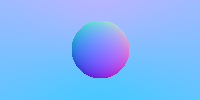
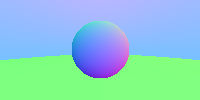
rendering multiple spheres

diff --git a/main.cpp b/main.cpp
@@ -7,32 +7,18 @@
 
 #include "math.h"
 #include "ray.h"
+#include "sphere.h"
+#include "hitableList.h"
 
-float hitSphere(V3 center, float radius, Ray& r) {
-	V3 oc = r.origin - center;
-	float a = dot(r.direction, r.direction);
-	float b = 2.0f * dot(oc, r.direction);
-	float c = dot(oc, oc) - radius*radius;
-	float discriminant = b*b - 4*a*c;
-	if (discriminant < 0) {
-		return -1.0f;
+V3 getColor(Ray& r, IHitable *world) {
+	HitRecord rec;
+	if (world->hit(r, 0.0f, FLT_MAX, rec)) {
+		return 0.5f*(rec.normal+V3(1.0f));
 	} else {
-		return (-b - sqrt(discriminant)) / (2.0f*a);
+		V3 unitDirection = r.direction.get_normalized();
+		float t = 0.5f*(unitDirection.y + 1.0f);
+		return lerp(V3(0.2f, 0.8f, 1.0f), V3(0.8f, 0.7f, 1.0f), t);
 	}
-}
-
-V3 getColor(Ray& r) {
-	float t = hitSphere(V3(0.0f, 0.0f, -1.0f), 0.5f, r);
-	if (t > 0.0f) {
-		// sphere normal is (hitpoint - sphere center)
-		V3 normal = r.point_at_t(t) - V3(0.0f, 0.0f, -1.0f);
-		normal.normalize();
-		return 0.5f*(V3(normal.x, normal.y, normal.z) + V3(1.0f));
-	}
-
-	V3 unitDirection = r.direction.get_normalized();
-	t = 0.5f*(unitDirection.y + 1.0f);
-	return lerp(V3(0.2f, 0.8f, 1.0f), V3(0.8f, 0.7f, 1.0f), t);
 }
 
 int main(int argCount, char **args) {
@@ -49,6 +35,11 @@ int main(int argCount, char **args) {
 	V3 horizontal(4.0f, 0.0f, 0.0f);
 	V3 vertical(0.0f, 2.0f, 0.0f);
 	V3 origin(0.0f, 0.0f, 0.0f);
+
+	IHitable *list[2];
+	list[0] = new Sphere(V3(0.0f, 0.0f, -1.0f), 0.5f);
+	list[1] = new Sphere(V3(0.0f, -100.5f, -1.0f), 100.0f);
+	IHitable *world = new HitableList(list, 2);
 	unsigned char* currentTexel = data;
 	auto cc = sizeof(*currentTexel);
 	for (int y = height-1; y >= 0; --y) {
@@ -58,7 +49,7 @@ int main(int argCount, char **args) {
 			float u = float(x)/float(width);
 			V3 rayDir = lowerLeftCorner + u*horizontal + v*vertical;
 			Ray ray(origin, rayDir);
-			V3 color = getColor(ray);
+			V3 color = getColor(ray, world);
 			*currentTexel = int(color.r*255.99f);
 			currentTexel++;
 			*currentTexel = int(color.g*255.99f);

diff --git a/sphere.h b/sphere.h
@@ -1,0 +1,41 @@
+#pragma once
+
+#include "hitable.h"
+
+struct Sphere: IHitable {
+	V3 center;
+	float radius;
+
+	Sphere(V3 cen, float r) : center(cen), radius(r) {};
+	virtual bool hit(Ray& r, float tMin, float tMax, HitRecord& rec) const;
+};
+
+bool Sphere::hit(Ray& r, float tMin, float tMax, HitRecord& rec) const {
+	V3 oc = r.origin - center;
+	float a = dot(r.direction, r.direction);
+	//float b = 2.0f * dot(oc, r.direction);
+	float b = dot(oc, r.direction);
+	float c = dot(oc, oc) - radius*radius;
+
+	float discriminant = b*b - a*c;
+	if (discriminant > 0) {
+
+		float temp = (-b - sqrt(discriminant)) / a;
+		if (temp > tMin && temp < tMax) {
+			rec.t = temp;
+			rec.p = r.pointAtParameter(rec.t);
+			rec.normal = (rec.p - center) / radius;
+			return true;
+		}
+
+		temp = (-b + sqrt(discriminant)) / a;
+		if (temp > tMin && temp < tMax) {
+			rec.t = temp;
+			rec.p = r.pointAtParameter(rec.t);
+			rec.normal = (rec.p - center) / radius;
+			return true;
+		}
+	} 
+	
+	return false;
+}

diff --git a/hitableList.h b/hitableList.h
@@ -1,0 +1,26 @@
+#pragma once
+
+#include "hitable.h"
+
+struct HitableList : IHitable {
+	IHitable** list;
+	int listSize;
+
+	HitableList(IHitable **l, int n) {list = l; listSize = n; }
+	virtual bool hit(Ray& r, float tMin, float tMax, HitRecord& rec) const;
+};
+
+bool HitableList::hit(Ray& r, float tMin, float tMax, HitRecord& rec) const {
+	HitRecord tempRec;
+	bool hitAnything = false;
+	double closestSoFar = tMax;
+
+	for (int i = 0; i < listSize; ++i) {
+		if (list[i]->hit(r, tMin, closestSoFar, tempRec)) {
+			hitAnything = true;
+			closestSoFar = tempRec.t;
+			rec = tempRec;
+		}
+	}
+	return hitAnything;
+}

diff --git a/hitable.h b/hitable.h
@@ -1,0 +1,13 @@
+#pragma once
+
+#include "ray.h"
+
+struct HitRecord {
+	float t;
+	V3 p;
+	V3 normal;
+};
+
+struct IHitable {
+	virtual bool hit(Ray& r, float tMin, float tMax, HitRecord& rec) const = 0;
+};

diff --git a/ray.h b/ray.h
@@ -11,7 +11,7 @@ struct Ray {
 		this->direction = direction;
 	}
 
-	V3 point_at_t(float t) {
+	V3 pointAtParameter(float t) {
 		return origin + t*direction;
 	}
 };
